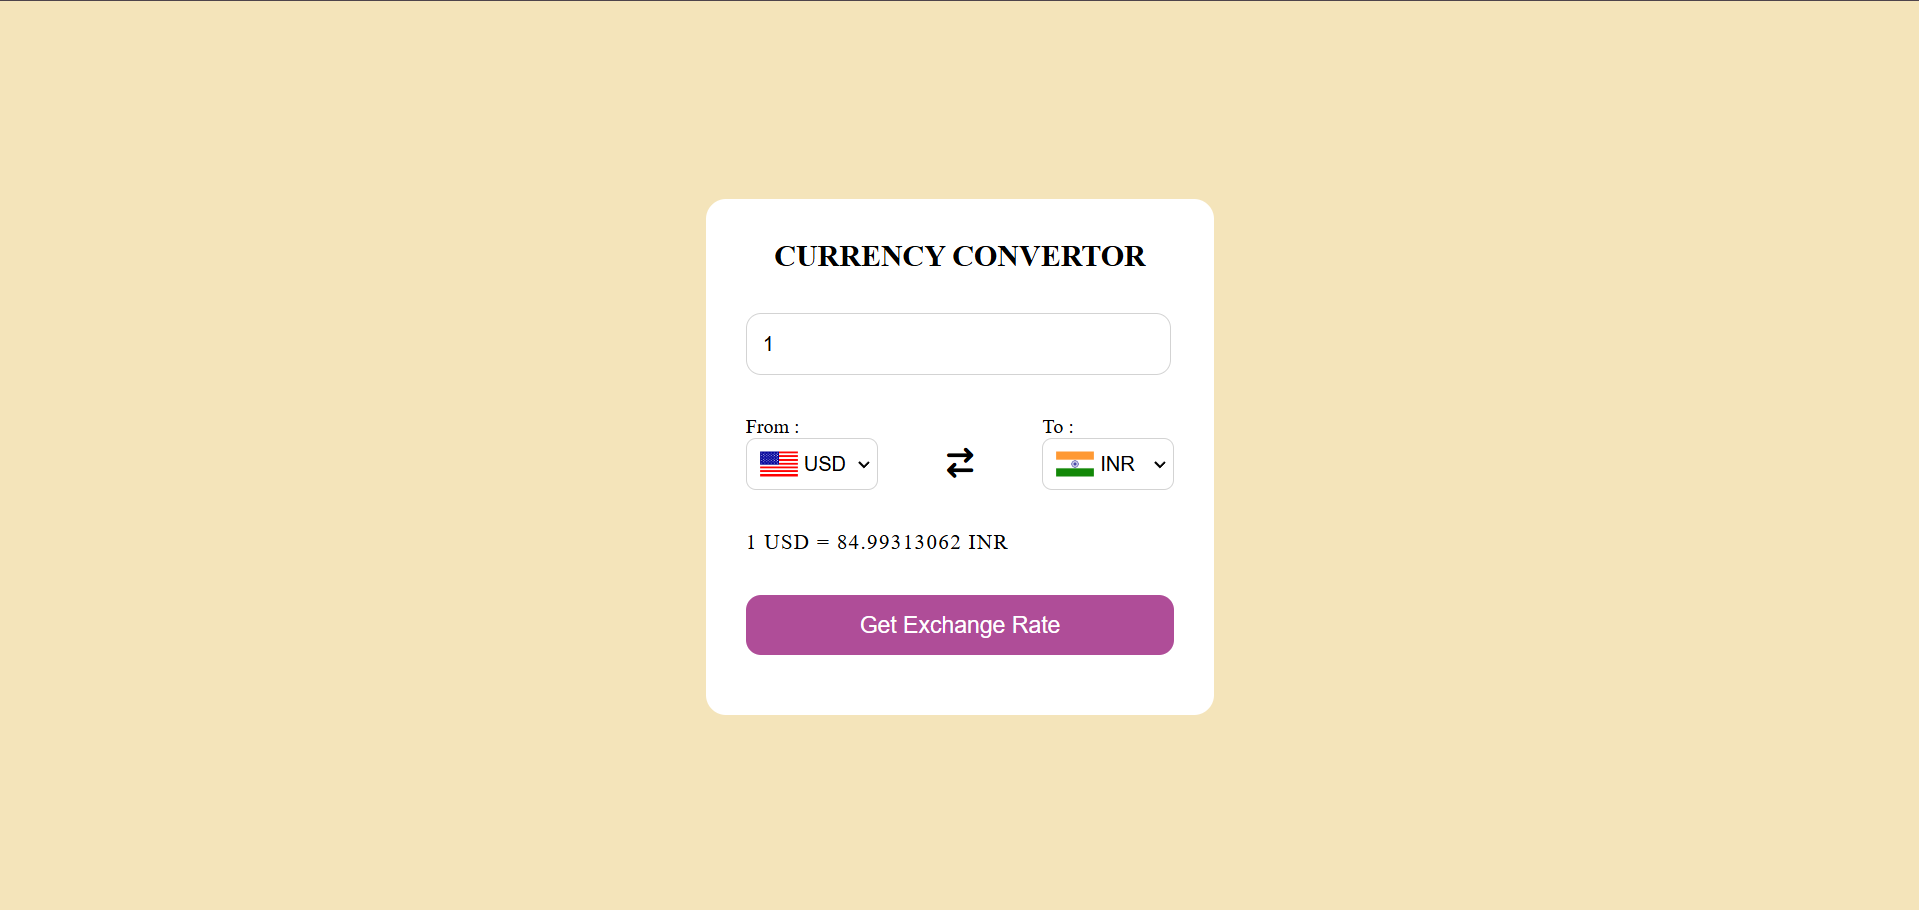
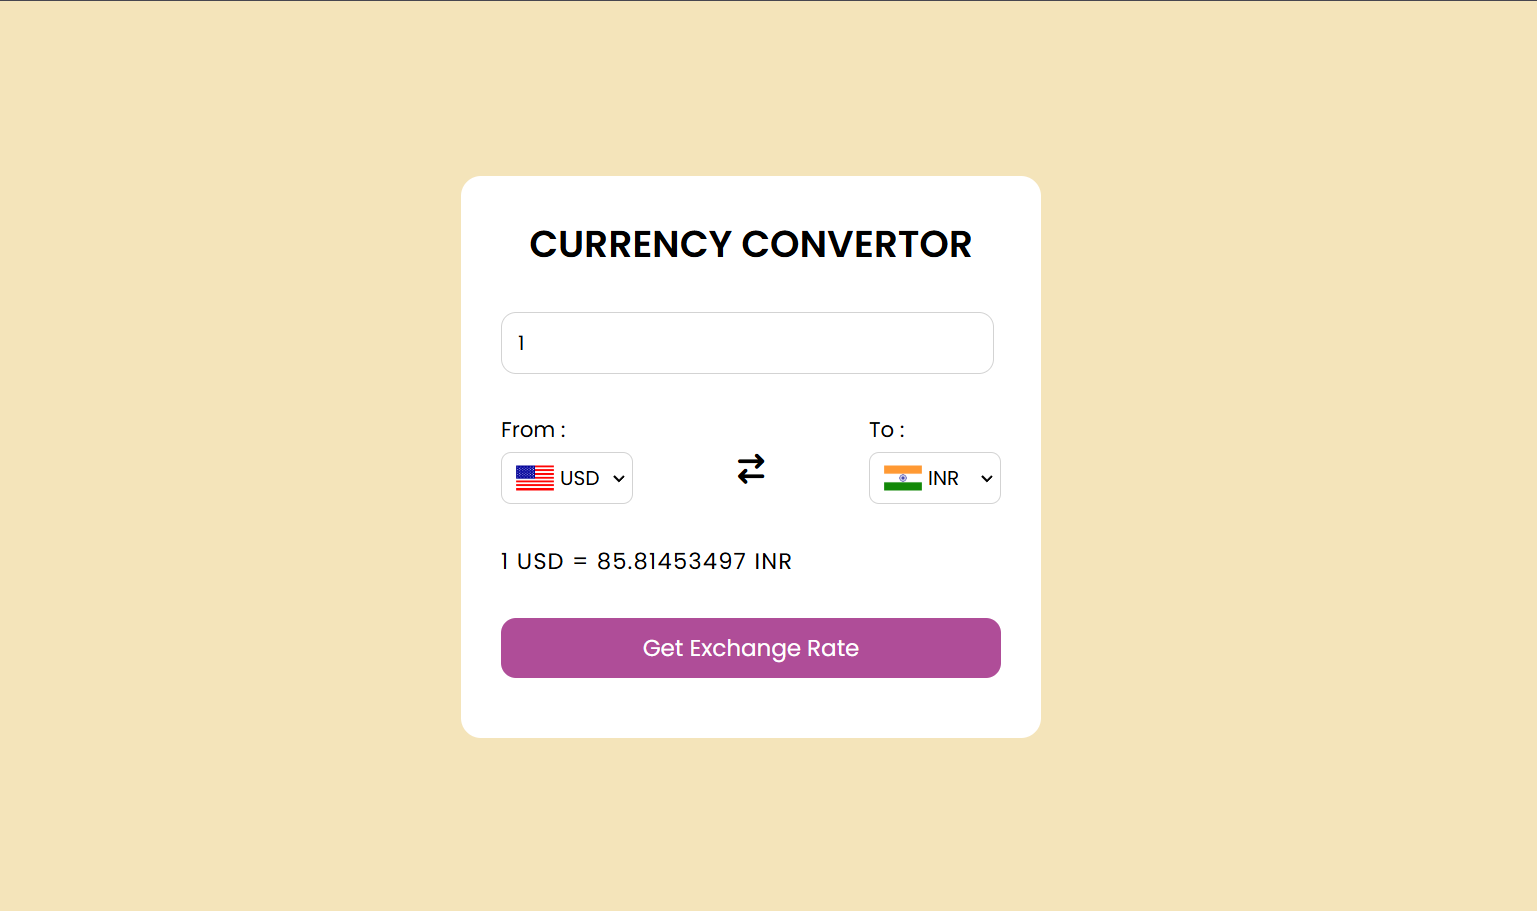
Added improvements

Changed region(s): [[0.2811, 0.1846, 0.6871, 0.8308]]

diff --git a/style.css b/style.css
@@ -1,7 +1,10 @@
+@import url('https://fonts.googleapis.com/css2?family=Poppins:wght@200;300;400;500;600;700&display=swap');
+
 * {
     margin: 0;
     padding: 0;
     user-select: none;
+    font-family: "Poppins", sans-serif;
 }
 
 body {
@@ -12,20 +15,28 @@ body {
     background-color: #f4e4ba;
 }
 
+/* container */
+
 .container {
     background-color: #fff;
     padding: 2rem;
     border-radius: 1rem;
     min-height: 40vh;
-    width: 350px;
+    width: 400px;
 }
+
+/* heading */
 
 .container h2 {
     text-transform: uppercase;
     display: flex;
     justify-content: center;
     align-items: center;
+    font-size: 30px;
+    font-weight: 600;
 }
+
+/* form */
 
 form {
     margin: 2rem 0 1rem 0;
@@ -40,6 +51,8 @@ input {
     border-radius: 0.75rem;
 }
 
+/* input box */
+
 form input {
     border: 1px solid lightgray;
     font-size: 1rem;
@@ -51,6 +64,8 @@ form input {
 form input::placeholder {
     font-size: 1.1rem;
 }
+
+/* dropdown */
 
 .dropdown {
     display: flex;
@@ -64,6 +79,11 @@ form input::placeholder {
     margin-top: 1rem;
 }
 
+.from p {
+    font-size: 17px;
+    margin-bottom: 5px;
+}
+
 .select-container {
     display: flex;
     justify-content: center;
@@ -72,6 +92,7 @@ form input::placeholder {
     border: 1px solid lightgray;
     width: 6.5rem;
     height: 2.5rem;
+    cursor: pointer;
 }
 
 .select-container img {
@@ -84,11 +105,15 @@ form input::placeholder {
     width: auto;
 }
 
+/* conversion */
+
 .msg {
     margin: 2rem 0 2rem 0;
-    font-size: 17px;
+    font-size: 18px;
     letter-spacing: 1px;
 }
+
+/* get conversion button */
 
 form button {
     height: 3rem;
@@ -96,29 +121,48 @@ form button {
     color: #fff;
     font-size: 1.15rem;
     cursor: pointer;
-    user-select: none;
     outline: none;
     -webkit-tap-highlight-color: transparent;
+    transition: all 0.3s ease;
+}
+
+form button:hover {
+    background-color: #ca1ba1;
 }
 
 /* Responsiveness */
 
-@media (max-width: 470px) {
+@media (max-width: 520px) {
 
     .container {
         padding: 1.5rem;
+        width: 350px;
+    }
+
+    .container h2 {
+        font-size: 25px;
+    }
+
+    form {
+        margin: 1.5rem 0 1rem 0;
+    }
+}
+
+@media (max-width: 440px) {
+
+    .container {
         width: 300px;
     }
 
     .container h2 {
-        font-size: 20px;
+        font-size: 21px;
     }
 }
 
 @media (max-width: 390px) {
 
     .container {
-        width: 250px;
+        width: 280px;
     }
 
     .dropdown {
@@ -137,7 +181,7 @@ form button {
 @media (max-width: 360px) {
 
     .container {
-        width: 230px;
+        width: 250px;
     }
 
     .container h2 {

diff --git a/index.html b/index.html
@@ -5,10 +5,11 @@
     <meta charset="UTF-8">
     <meta name="viewport" content="width=device-width, initial-scale=1.0">
     <title>Currency Convertor</title>
-    <link rel="stylesheet" href="style.css">
+    <!-- font awesome likn -->
     <link rel="stylesheet" href="https://cdnjs.cloudflare.com/ajax/libs/font-awesome/6.7.1/css/all.min.css"
         integrity="sha512-5Hs3dF2AEPkpNAR7UiOHba+lRSJNeM2ECkwxUIxC1Q/FLycGTbNapWXB4tP889k5T5Ju8fs4b1P5z/iB4nMfSQ=="
         crossorigin="anonymous" referrerpolicy="no-referrer" />
+    <link rel="stylesheet" href="style.css">
 </head>
 
 <body>
@@ -29,7 +30,7 @@
                     <p>From : </p>
 
                     <div class="select-container">
-                        <img src="https://flagsapi.com/US/flat/64.png" alt="">
+                        <img src="https://flagsapi.com/US/flat/64.png" alt="country-flag">
                         <select name="from"></select>
                     </div>
 
@@ -43,7 +44,7 @@
                         <p>To : </p>
 
                         <div class="select-container">
-                            <img src="https://flagsapi.com/IN/flat/64.png" alt="">
+                            <img src="https://flagsapi.com/IN/flat/64.png" alt="country-flag">
                             <select name="to"></select>
                         </div>
 
@@ -60,7 +61,9 @@
 
     </div>
 
+    <!-- codes of countires -->
     <script src="codes.js"></script>
+    <!-- custom js -->
     <script src="script.js"></script>
 
 </body>

diff --git a/script.js b/script.js
@@ -1,3 +1,4 @@
+// API URL
 const BASE_URL =
     "https://cdn.jsdelivr.net/npm/@fawazahmed0/currency-api@latest/v1/currencies";
 
@@ -7,6 +8,7 @@ const fromCurr = document.querySelector(".from select");
 const toCurr = document.querySelector(".to select");
 const msg = document.querySelector(".msg");
 
+// dropdown
 for (let select of dropdowns) {
     for (currCode in countryList) {
         let newOption = document.createElement("option");
@@ -25,6 +27,7 @@ for (let select of dropdowns) {
     });
 }
 
+// Exchange rate
 const updateExchangeRate = async () => {
     let amount = document.querySelector(".amount input");
     let amtVal = amount.value;
@@ -42,6 +45,7 @@ const updateExchangeRate = async () => {
     msg.innerText = `${amtVal} ${fromCurr.value} = ${finalAmount} ${toCurr.value}`;
 };
 
+// Update flag of country
 const updateFlag = (element) => {
     let currCode = element.value;
     let countryCode = countryList[currCode];
@@ -50,11 +54,13 @@ const updateFlag = (element) => {
     img.src = newSrc;
 };
 
+// get exhange rate buttom
 btn.addEventListener("click", (evt) => {
     evt.preventDefault();
     updateExchangeRate();
 });
 
+// call update exchange rate when window loads (reset)
 window.addEventListener("load", () => {
     updateExchangeRate();
 });

diff --git a/codes.js b/codes.js
@@ -1,3 +1,4 @@
+// country code list
 const countryList = {
     AED: "AE",
     AFN: "AF",
